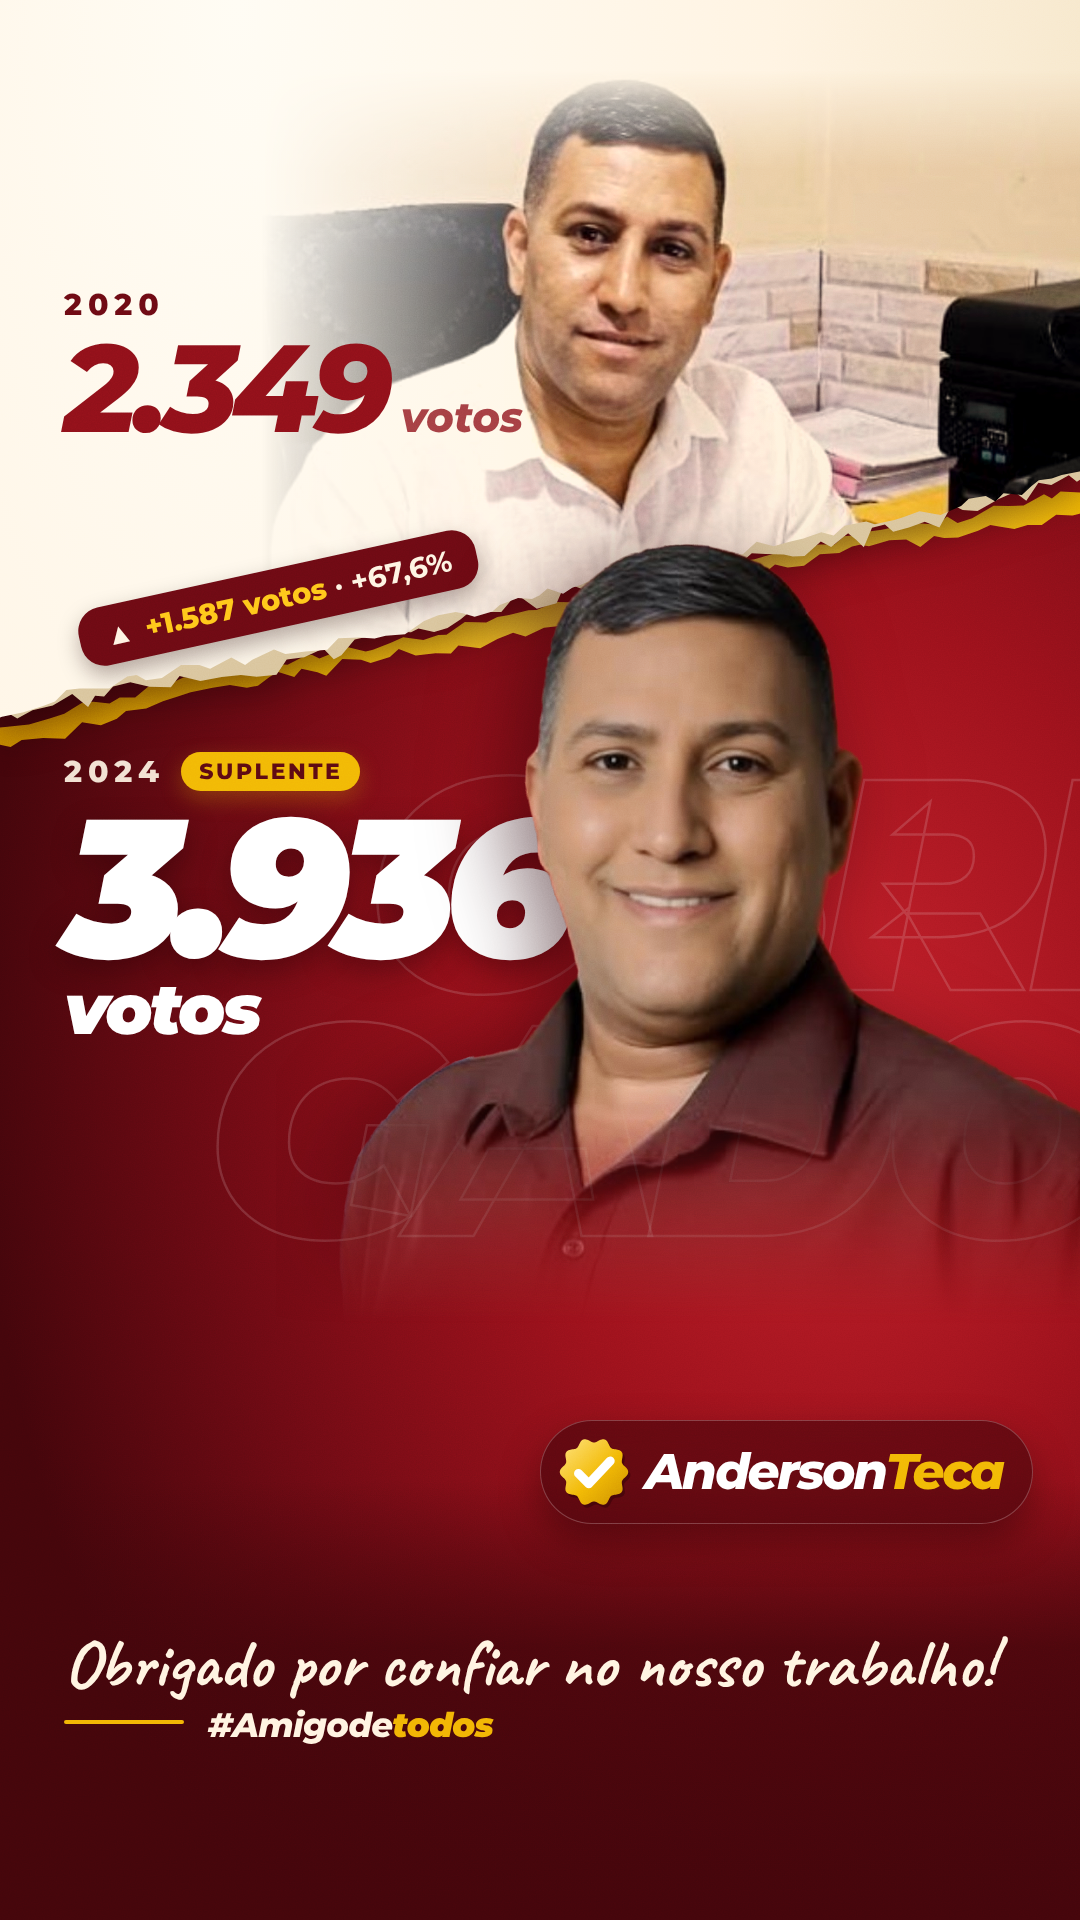
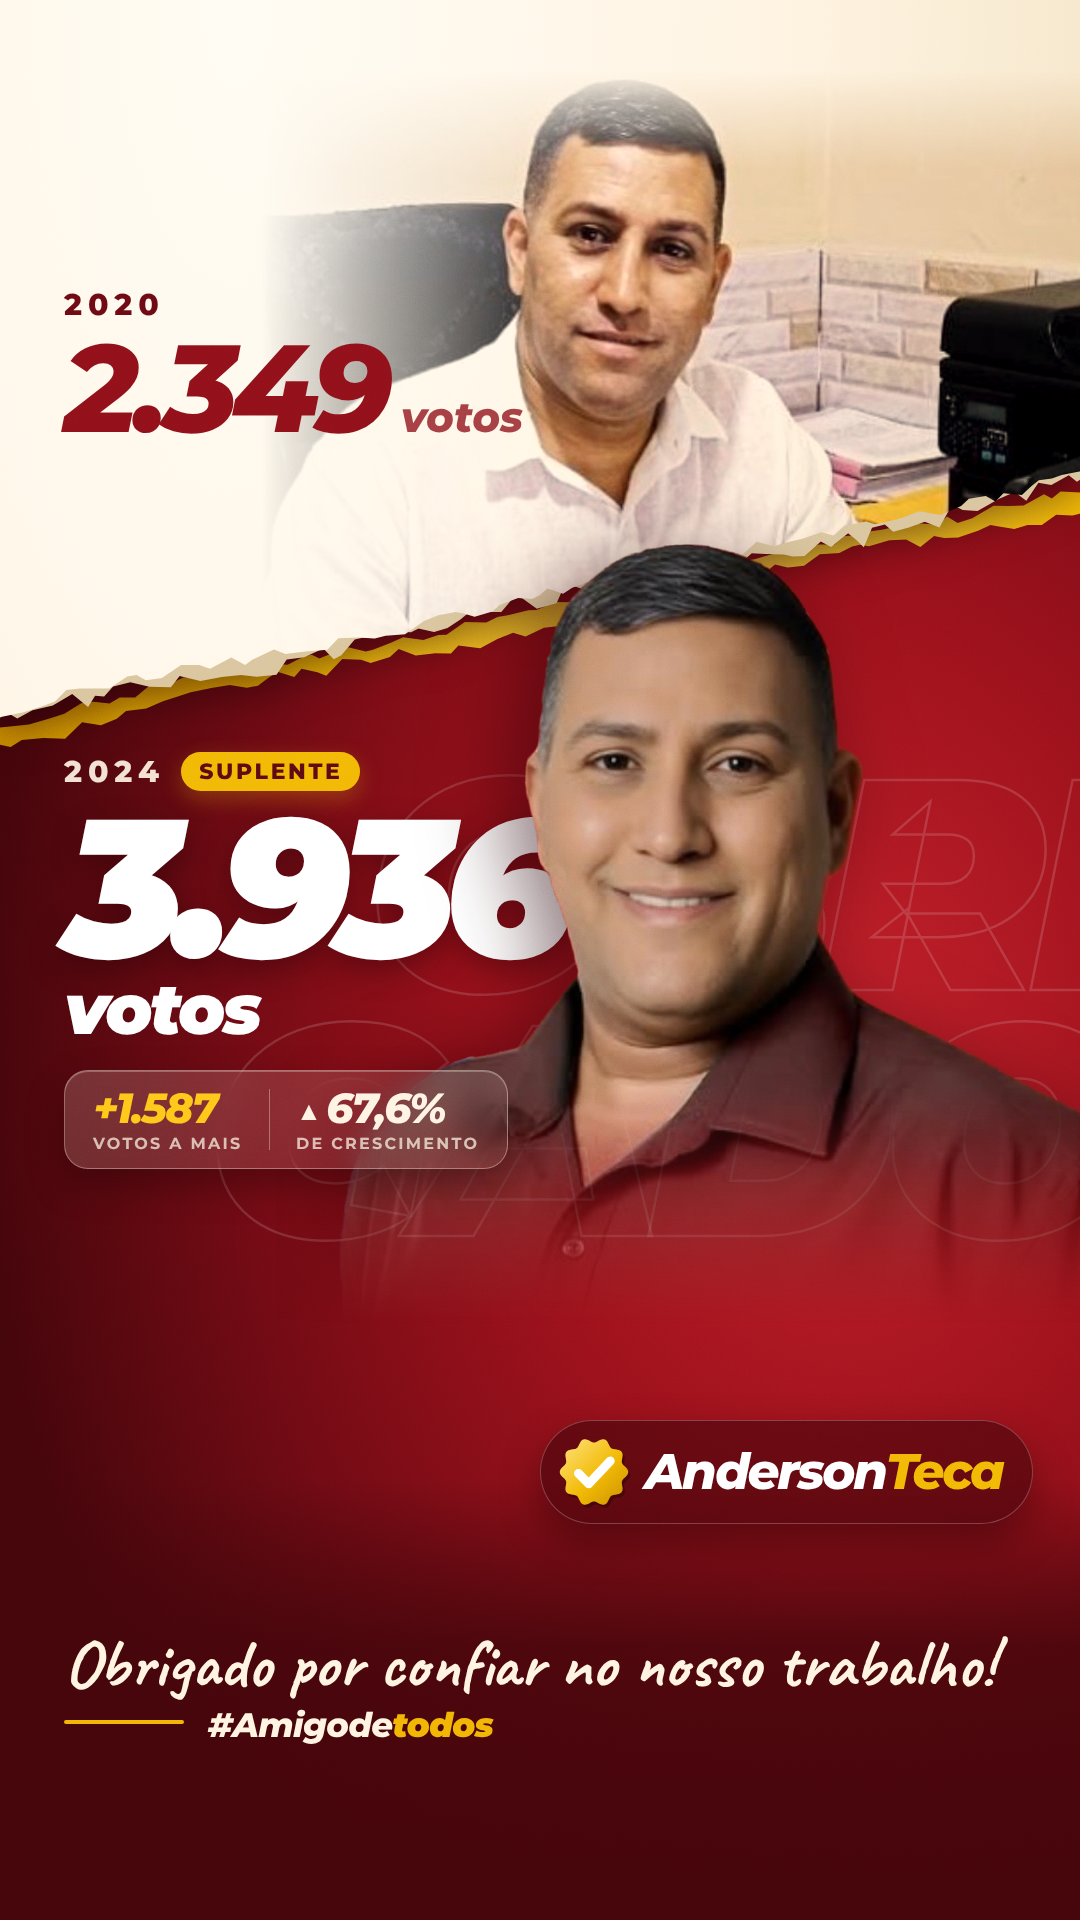
Anderson Teca v7: card de estatística na horizontal abaixo do total de 2024
Claude-Session: https://claude.ai/code/session_01Y4FBjftjKYjL6a6dxycj4C

Changed region(s): [[0.0611, 0.5312, 0.4889, 0.625], [0.0611, 0.25, 0.4583, 0.375]]

diff --git a/artes-clientes/anderson-teca/arte.html b/artes-clientes/anderson-teca/arte.html
@@ -36,6 +36,13 @@
   .st { padding:9px 18px 8px; border-radius:30px; background:var(--gold); color:var(--wine); font:800 22px/1 'Montserrat'; letter-spacing:.12em; text-transform:uppercase; box-shadow:0 8px 22px rgba(242,183,5,.25) }
   .n24 .n { font:italic 900 196px/.84 'Montserrat'; letter-spacing:-.06em; color:#fff; text-shadow:0 10px 30px rgba(40,0,6,.45); margin-top:14px; white-space:nowrap }
   .n24 .v { font:italic 900 70px/1 'Montserrat'; letter-spacing:-.04em; color:#fff; margin-top:4px }
+  #stat { position:absolute; z-index:4; left:64px; display:flex; align-items:center; padding:16px 28px; border-radius:24px;
+    background:linear-gradient(140deg,rgba(255,244,226,.18),rgba(255,244,226,.07)); backdrop-filter:blur(14px); border:1.5px solid rgba(255,244,226,.34); box-shadow:0 16px 36px rgba(30,0,4,.4), inset 0 1px 0 rgba(255,255,255,.25) }
+  #stat .c { display:flex; flex-direction:column; gap:7px }
+  #stat .k { font:italic 800 42px/1 'Montserrat'; letter-spacing:-.04em; white-space:nowrap }
+  #stat .k.g { color:#FFC61A } #stat .k.w { color:#FFF4E2 } #stat .k small { font-size:.62em; margin-right:6px; vertical-align:.12em }
+  #stat .l { font:700 16px/1 'Montserrat'; letter-spacing:.14em; text-transform:uppercase; color:rgba(255,244,226,.72); white-space:nowrap }
+  #stat .d { width:1.5px; align-self:stretch; margin:2px 26px; background:rgba(255,244,226,.34) }
   #logo { z-index:5; display:flex; align-items:center; gap:14px; padding:14px 30px 14px 16px; border-radius:60px; background:rgba(66,5,11,.62); backdrop-filter:blur(14px); border:1.5px solid rgba(255,255,255,.22); box-shadow:0 18px 40px rgba(30,0,4,.45) }
   #logo .wm { font:italic 800 50px/1 'Montserrat'; letter-spacing:-.045em; color:#fff; white-space:nowrap }
   #logo .wm b { color:var(--gold); font-weight:800 }
@@ -52,7 +59,6 @@
   <div id="paperW"><div id="pBack"></div><div id="paper">
     <img id="p20img" src="work/anderson2020.jpg">
     <div id="top"><div class="y">2020</div><div class="n20"><span class="n">2.349</span><span class="v">votos</span></div></div>
-    <div id="chip">▲ <span><b>+1.587 votos</b> · +67,6%</span></div>
   </div></div>
   <img class="abs" id="me" src="work/anderson.png">
   <div class="abs" id="foot"></div>
@@ -60,6 +66,7 @@
     <div class="yr"><span class="y">2024</span><span class="st">Suplente</span></div>
     <div class="n24"><div class="n">3.936</div><div class="v">votos</div></div>
   </div>
+  <div id="stat"><div class="c"><div class="k g">+1.587</div><div class="l">votos a mais</div></div><div class="d"></div><div class="c"><div class="k w"><small>▲</small>67,6%</div><div class="l">de crescimento</div></div></div>
   <div class="abs" id="logo"><svg width="74" height="74" viewBox="-50 -50 100 100" id="check"></svg><div class="wm">Anderson<b>Teca</b></div></div>
   <div class="abs" id="thanks">Obrigado por confiar no nosso trabalho!</div>
   <div class="abs" id="rule"></div>
@@ -85,9 +92,8 @@ $('pBack').style.clipPath = poly(above(edge(17, 20, 9)))
 { const a = edge(77, 14, 30, -30, 1110), b = edge(78, 10, 12, -30, 1110).reverse(); $('gold').style.clipPath = poly(a.concat(b)) }
 // foto de 2020 diluída no papel
 { const [l, t, w] = L.photo, im = $('p20img'); im.style.cssText += `left:${l}px;top:${t}px;width:${w}px` }
-// textos de 2020 (sobre o papel, em vinho) + chip ao longo do corte
+// textos de 2020 (sobre o papel, em vinho)
 $('top').style.top = L.top[0] + 'px'
-{ const th = Math.atan(slope), chip = $('chip'); chip.style.transform = `rotate(${th}rad)`; chip.style.top = (cutY(80) - 56 - 28) + 'px' }
 // 2024 e foto atual
 $('col').style.top = L.col + 'px'
 { const [l, t, w] = L.me, m = $('me'); m.style.left = l + 'px'; m.style.top = t + 'px'; m.style.width = w + 'px' }
@@ -99,5 +105,5 @@ const scallop = (R, amp, n) => { let d = ''; for (let i = 0; i <= 240; i++) { co
 $('check').innerHTML = `<defs><linearGradient id="g1" x1="0" y1="0" x2="1" y2="1"><stop offset="0" stop-color="#FFE27A"/><stop offset=".55" stop-color="#F2B705"/><stop offset="1" stop-color="#C98A00"/></linearGradient></defs>
   <path d="${scallop(43, .075, 10)}" fill="#2a0306" opacity=".45" transform="translate(3 4)"/><path d="${scallop(43, .075, 10)}" fill="url(#g1)"/>
   <path d="M-21 2 L-7 16 L22 -15" fill="none" stroke="#fff" stroke-width="12" stroke-linecap="round" stroke-linejoin="round"/>`
-window.ready = document.fonts.ready.then(() => Promise.all([$('me').decode(), $('p20img').decode()]))
+window.ready = document.fonts.ready.then(() => { const r = $('col').getBoundingClientRect(), t0 = art.getBoundingClientRect().top; $('stat').style.top = (r.bottom - t0 + 26) + 'px'; return Promise.all([$('me').decode(), $('p20img').decode()]) })
 </script></body></html>
